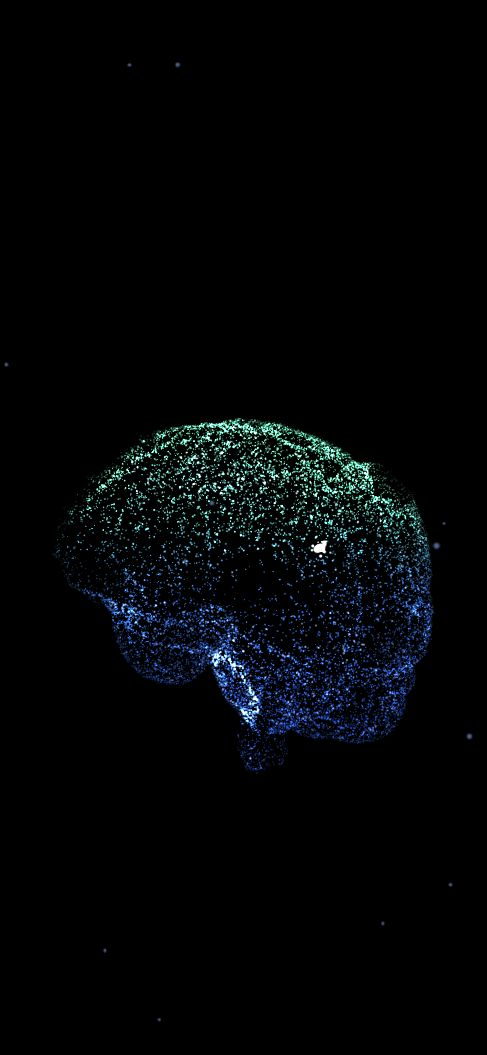
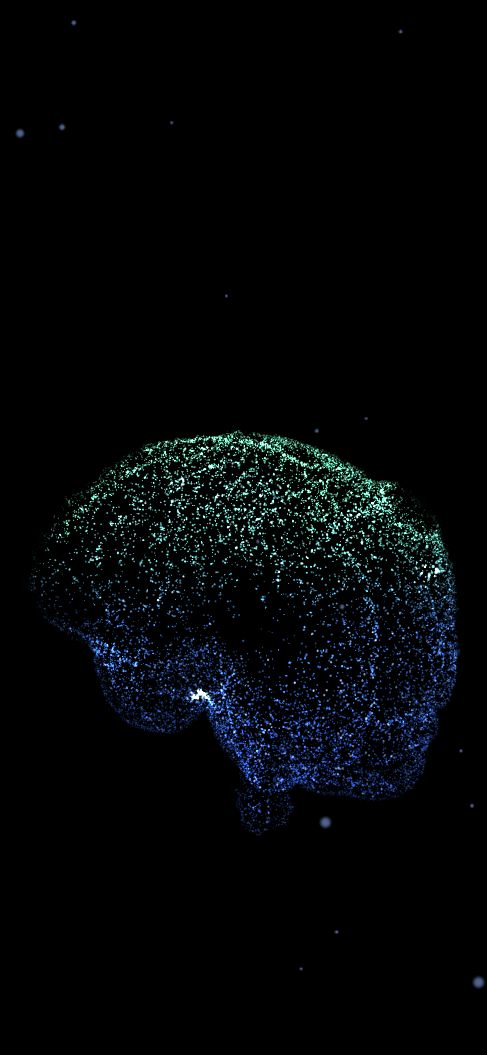
Móvil y tableta: «Predice, activa y convierte.» baja hasta el borde (alineado a la izquierda, libre del botón de WhatsApp) y el cerebro crece hasta el ancho de la pantalla

diff --git a/src/scripts/hero3d.js b/src/scripts/hero3d.js
@@ -452,7 +452,7 @@ export function initHero3D() {
     const pxPerUnit = h / (2 * Math.tan((camera.fov * Math.PI) / 360) * camera.position.z);
     const boxW = (brainBox.x1 - brainBox.x0) * 1.12, boxH = (brainBox.y1 - brainBox.y0) * 1.12;   // margen por el giro y el relieve
     const gap = Math.max(40, below - above), air = Math.min(36, gap * 0.12);                   // aire mínimo con cada texto
-    const fit = Math.min((gap - 2 * air) / (boxH * pxPerUnit), (w * 0.86) / (boxW * pxPerUnit), base.scale * 1.6);
+    const fit = Math.min((gap - 2 * air) / (boxH * pxPerUnit), (w * 0.97) / (boxW * pxPerUnit));
     base.brainScale = Math.max(0.12, fit);
     // el tronco del cerebro (abajo) es fino y casi no se ve: el cuerpo visible queda algo por encima del centro de su caja, así
     // que se baja un poco para que el aire por arriba y por abajo se vea igual
